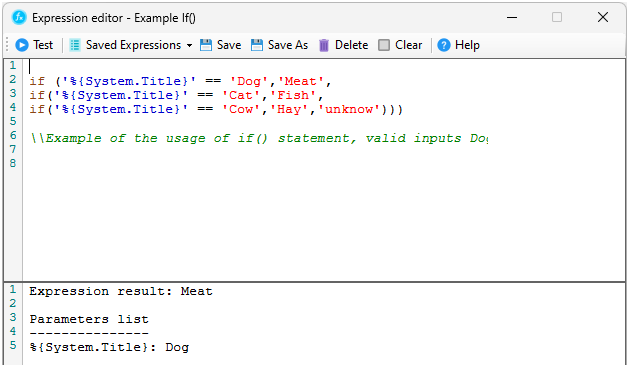
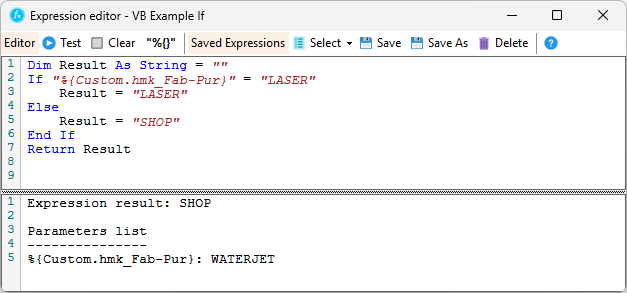
Change language name from sql to ncalc

Changed region(s): [[0.0, 0.0, 1.0, 1.0]]

diff --git a/HelpTopics.md b/HelpTopics.md
@@ -843,17 +843,19 @@ If you are changing `System.Material` specifically, you can also update the prop
 
 **Expressions**
 
-An `expression` is similar to a formula in Excel. Expressions enable more complex manipulations of the `Replace` string. To create one, click the `Expression Editor` button on the input editor form. 
+An `expression` is basically a program. It enables more complex manipulations of the `Replace` string. To create one, click the `Expression Editor` button on the input editor form. 
+
+There are two programming languages available, `NCalc` and `VB`. Choose which one to use on the **Configuration Tab -- General Page**. `VB` is a full-featured programming language.  Explaining its use is beyond the scope of this Help Topic.  `NCalc` is more like a formula in Excel. Some of its features are detailed below. 
 
 ![Expression Editor](My%20Project/media/expression_editor.png)
 
-You can perform string processing, create logical expressions, do arithmetic, and, well, almost anything.  The available functions are listed below. Like Excel, the expression must return a value.  Nested functions are the norm for complex manipulations. Unlike Excel, multi-line text is allowed, which can make the code more readable. 
+With `NCalc` you can perform string processing, create logical expressions, do arithmetic, and, well, almost anything.  The available functions are listed below. Like Excel, the expression must return a value.  Nested functions are the norm for complex manipulations. Unlike Excel, multi-line text is allowed, which can make the code more readable. 
 
 You can check your expression using the `Test` button. If there are undefined variables, for example `%{Custom.Engineer}`, it prompts you for a value. When you are satisfied with your expression, dismiss the dialog by clicking the `X` on the upper right. The expression will be copied to the clipboard.  Click in the desired Replace text box and type CTRL-V. 
 
 You can `Save` or `Save As` your expression with the buttons provided. Retreive them with the `Saved Expressions` drop-down. That drop-down comes with a few examples. You can study those to get the hang of it. To learn more, click the `Help` button.  That opens a web site with lots of useful information, and links to more. 
 
-Available functions
+`NCalc` functions
 
 `concat()`, `contains()`, `convert()`, `count()`, `countBy()`, `dateAdd()`, `dateTime()`, `dateTimeAsEpoch()`, `dateTimeAsEpochMs()`, `dictionary()`,`distinct()`, `endsWith()`, `extend()`, `first()`, `firstOrDefault()`, `format()`, `getProperties()`, `getProperty()`, `humanize()`, `if()`, `in()`, `indexOf()`, `isGuid()`, `isInfinite()`, `isNaN()`, `isNull()`, `isNullOrEmpty()`, `isNullOrWhiteSpace()`, `isSet()`, `itemAtIndex()`, `jObject()`, `join()`, `jPath()`, `last()`, `lastIndexOf()`, `lastOrDefault()`, `length()`, `list()`, `listOf()`, `max()`, `maxValue()`, `min()`, `minValue()`, `nullCoalesce()`, `orderBy()`, `padLeft()`, `parse()`, `parseInt()`, `regexGroup()`, `regexIsMatch()`, `replace()`, `retrieve`, `reverse()`, `sanitize()`, `select()`, `selectDistinct()`, `setProperties()`, `skip()`, `Sort()`, `Split()`, `startsWith()`, `store()`, `substring()`, `sum()`, `switch()`, `take()`, `throw()`, `timeSpan()`, `toDateTime()`, `toLower()`, `toString()`, `toUpper()`, `try()`, `tryParse()`, `typeOf()`, `where()`
 
@@ -1140,7 +1142,9 @@ Select the file type using the combobox. Select the directory using the `Browse`
 
 You can optionally rename the file or create subdirectories using a formula similar to the Property Text Callout. Enable the `Change filename` and/or `Use subdirectory formula` options to do so. To add a property, right-click the text box and select `Insert property`. You can also just type it in if that's easier. You can create nested subdirectories if desired. Simply add `\` in the subdirectory formula. Here are two examples. 
 - `Project %{System.Project Name}` 
-- `%{System.Material}\%{System.Sheet Metal Gage}` Another option to create the new file or subdirectory name is to use the Expression Editor.  This can be especially handy if an `If` statement is needed for any reason.  For details on the Expression Editor, refer to the [<ins>**Edit Properties Help Topic**</ins>](https://github.com/rmcanany/SolidEdgeHousekeeper/blob/master/HelpTopics.md#edit-properties).  You'll have to scroll down a bit to see it.
+- `%{System.Material}\%{System.Sheet Metal Gage}` 
+
+Another option to create the new file or subdirectory name is to use the Expression Editor.  This can be especially handy if an `If` statement is needed for any reason.  For details on the Expression Editor, refer to the [<ins>**Edit Properties Help Topic**</ins>](https://github.com/rmcanany/SolidEdgeHousekeeper/blob/master/HelpTopics.md#edit-properties).  You'll have to scroll down a bit to see it.
 
 You can enter a subdirectory formula even if `Original directory` is enabled. In that case, it is interpreted as a subdirectory under the original directory. 
 

diff --git a/README.md b/README.md
@@ -843,17 +843,19 @@ If you are changing `System.Material` specifically, you can also update the prop
 
 **Expressions**
 
-An `expression` is similar to a formula in Excel. Expressions enable more complex manipulations of the `Replace` string. To create one, click the `Expression Editor` button on the input editor form. 
+An `expression` is basically a program. It enables more complex manipulations of the `Replace` string. To create one, click the `Expression Editor` button on the input editor form. 
+
+There are two programming languages available, `NCalc` and `VB`. Choose which one to use on the **Configuration Tab -- General Page**. `VB` is a full-featured programming language.  Explaining its use is beyond the scope of this Help Topic.  `NCalc` is more like a formula in Excel. Some of its features are detailed below. 
 
 ![Expression Editor](My%20Project/media/expression_editor.png)
 
-You can perform string processing, create logical expressions, do arithmetic, and, well, almost anything.  The available functions are listed below. Like Excel, the expression must return a value.  Nested functions are the norm for complex manipulations. Unlike Excel, multi-line text is allowed, which can make the code more readable. 
+With `NCalc` you can perform string processing, create logical expressions, do arithmetic, and, well, almost anything.  The available functions are listed below. Like Excel, the expression must return a value.  Nested functions are the norm for complex manipulations. Unlike Excel, multi-line text is allowed, which can make the code more readable. 
 
 You can check your expression using the `Test` button. If there are undefined variables, for example `%{Custom.Engineer}`, it prompts you for a value. When you are satisfied with your expression, dismiss the dialog by clicking the `X` on the upper right. The expression will be copied to the clipboard.  Click in the desired Replace text box and type CTRL-V. 
 
 You can `Save` or `Save As` your expression with the buttons provided. Retreive them with the `Saved Expressions` drop-down. That drop-down comes with a few examples. You can study those to get the hang of it. To learn more, click the `Help` button.  That opens a web site with lots of useful information, and links to more. 
 
-Available functions
+`NCalc` functions
 
 `concat()`, `contains()`, `convert()`, `count()`, `countBy()`, `dateAdd()`, `dateTime()`, `dateTimeAsEpoch()`, `dateTimeAsEpochMs()`, `dictionary()`,`distinct()`, `endsWith()`, `extend()`, `first()`, `firstOrDefault()`, `format()`, `getProperties()`, `getProperty()`, `humanize()`, `if()`, `in()`, `indexOf()`, `isGuid()`, `isInfinite()`, `isNaN()`, `isNull()`, `isNullOrEmpty()`, `isNullOrWhiteSpace()`, `isSet()`, `itemAtIndex()`, `jObject()`, `join()`, `jPath()`, `last()`, `lastIndexOf()`, `lastOrDefault()`, `length()`, `list()`, `listOf()`, `max()`, `maxValue()`, `min()`, `minValue()`, `nullCoalesce()`, `orderBy()`, `padLeft()`, `parse()`, `parseInt()`, `regexGroup()`, `regexIsMatch()`, `replace()`, `retrieve`, `reverse()`, `sanitize()`, `select()`, `selectDistinct()`, `setProperties()`, `skip()`, `Sort()`, `Split()`, `startsWith()`, `store()`, `substring()`, `sum()`, `switch()`, `take()`, `throw()`, `timeSpan()`, `toDateTime()`, `toLower()`, `toString()`, `toUpper()`, `try()`, `tryParse()`, `typeOf()`, `where()`
 
@@ -1140,7 +1142,9 @@ Select the file type using the combobox. Select the directory using the `Browse`
 
 You can optionally rename the file or create subdirectories using a formula similar to the Property Text Callout. Enable the `Change filename` and/or `Use subdirectory formula` options to do so. To add a property, right-click the text box and select `Insert property`. You can also just type it in if that's easier. You can create nested subdirectories if desired. Simply add `\` in the subdirectory formula. Here are two examples. 
 - `Project %{System.Project Name}` 
-- `%{System.Material}\%{System.Sheet Metal Gage}` Another option to create the new file or subdirectory name is to use the Expression Editor.  This can be especially handy if an `If` statement is needed for any reason.  For details on the Expression Editor, refer to the [<ins>**Edit Properties Help Topic**</ins>](https://github.com/rmcanany/SolidEdgeHousekeeper/blob/master/HelpTopics.md#edit-properties).  You'll have to scroll down a bit to see it.
+- `%{System.Material}\%{System.Sheet Metal Gage}` 
+
+Another option to create the new file or subdirectory name is to use the Expression Editor.  This can be especially handy if an `If` statement is needed for any reason.  For details on the Expression Editor, refer to the [<ins>**Edit Properties Help Topic**</ins>](https://github.com/rmcanany/SolidEdgeHousekeeper/blob/master/HelpTopics.md#edit-properties).  You'll have to scroll down a bit to see it.
 
 You can enter a subdirectory formula even if `Original directory` is enabled. In that case, it is interpreted as a subdirectory under the original directory. 
 
